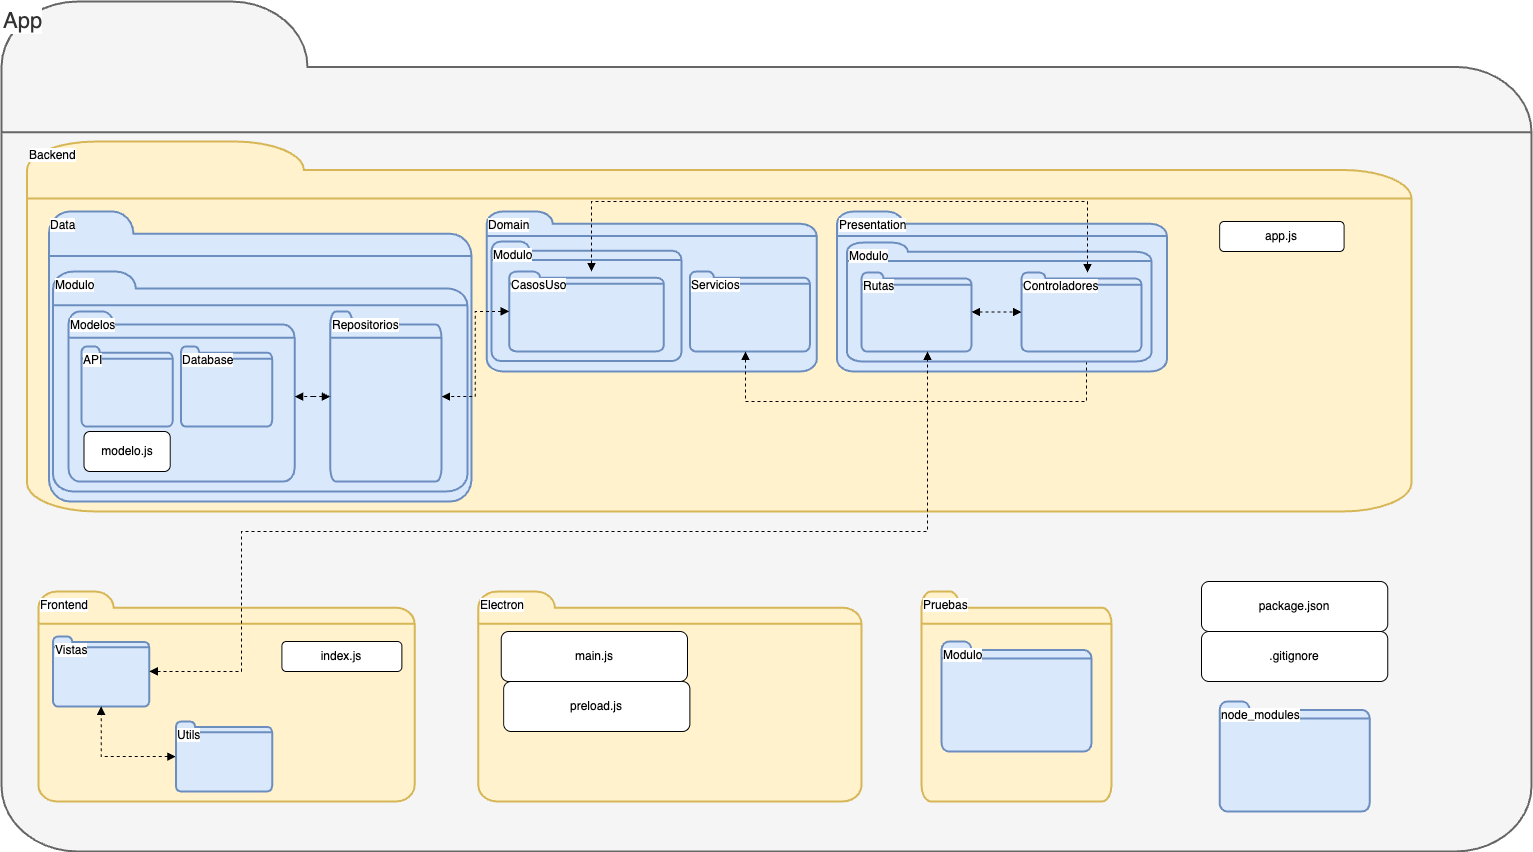
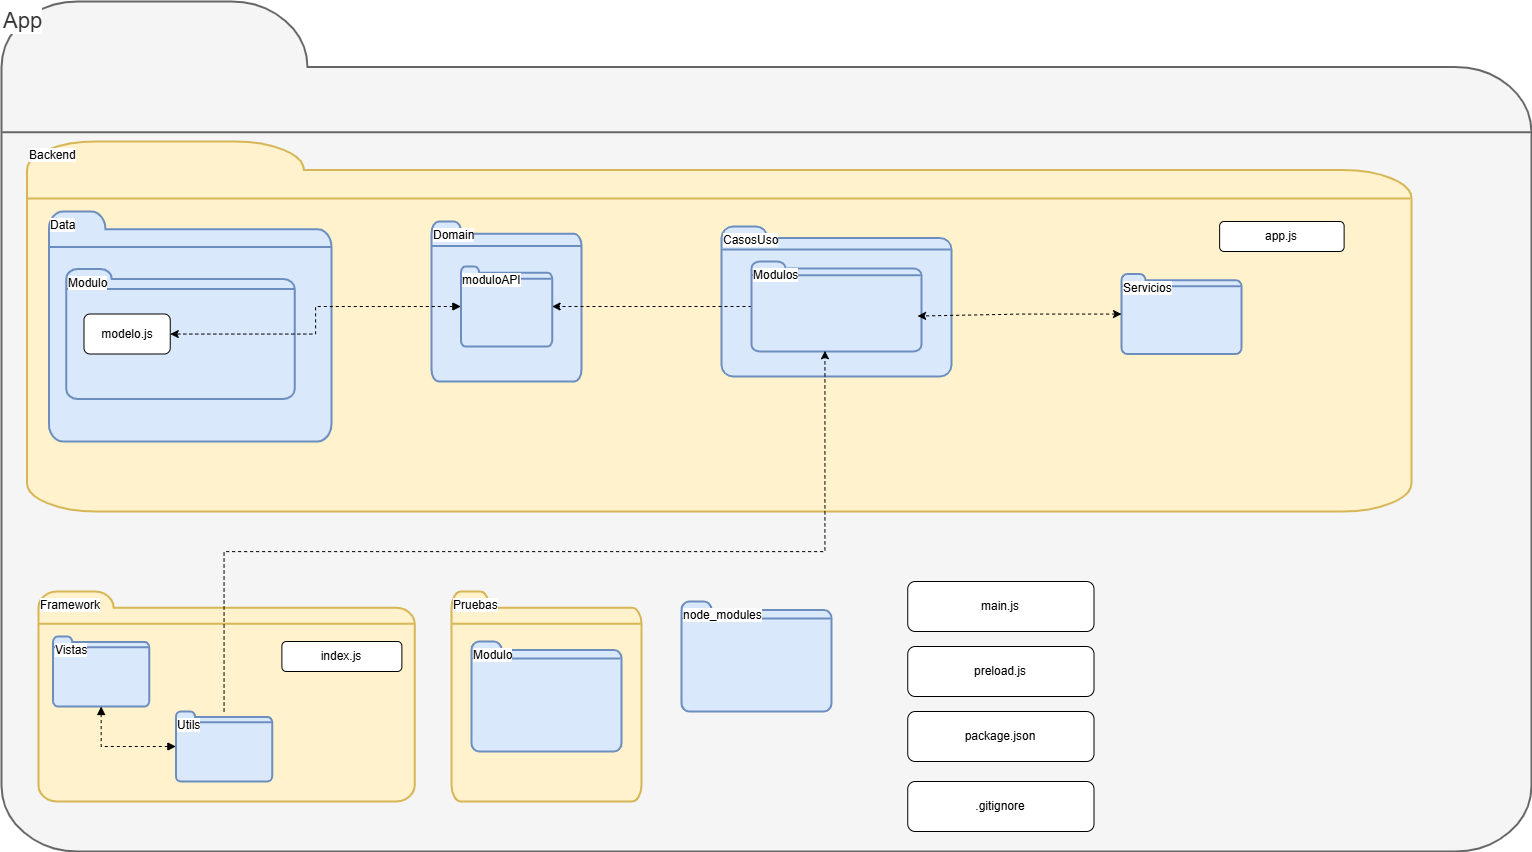
Actualizar diagrama de paquetes
Se actualizo el diagrama de paquetes de electron y su explicacion

diff --git a/documentation/docs/proyectos/tractores/documentacion/estrategia.md b/documentation/docs/proyectos/tractores/documentacion/estrategia.md
@@ -120,36 +120,32 @@ Este diagrama de paquetes representa la organización de la app local de electro
 
 ### 1. Backend
 
-Esta carpeta sigue una arquitectura basada en CLEAN con MVC.
+Esta carpeta sigue una arquitectura basada en CLEAN.
 
-- **Data**: Se encarga de la persistencia y recuperación de los datos. Encapsula el consumo de API's y los modelos. Cada módulo del proyecto tendrá su propia carpeta dentro de `Data`, que contendrá:
+- **Data**: Se encarga de la persistencia y recuperación de los datos. Cada módulo del proyecto tendrá su propia carpeta dentro de `Data`, que contendrá:
 
-  - **API**: Módulos para realizar llamadas a API's externas, si la aplicación lo necesita. Ej: Comunicación con el backend alojado en el EC2.
-  - **Database**: Configuración de la base de datos y sus conexiones.
   - **Modelos**: Definen las estructuras de datos de la aplicación (esquemas, clases).
-  - **Repositorios**: Abstracción de acceso de datos para separar la implementación de la lógica de negocio.
 
 - **Domain**: Contiene la lógica de negocio pura de la aplicación.
 
-  - **Modulo**: Cada módulo tendrá su carpeta propia que contendrá:
-    - **UseCases**: Define los casos de uso de la aplicación. Cada uno representa una operación clave.
-  - **Servicios**: Lógica reutilizable alrededor del proyecto.
+  - **ModuloAPI**: Que encapsula el consumo de las APIs
 
-- **Presentation**: Define las rutas y controladores para interactuar con el frontend local. Cada módulo del proyecto tendrá su propia carpeta dentro de `Presentation`, que contendrá:
+- **CasosUso**: Que encapsulará la lógica y procesamiento de los diversos casos de uso. Dentro de la carpeta, cada módulo del proyecto tendrá su propia carpeta, que contendrá:
 
-  - **Rutas**: Punto de entrada de las rutas y definición de las rutas de la API.
-  - **Controladores**: Implementación de la lógica que interactúa con los casos de uso.
+  - **CasoUso.js**: Que manejará la lógica de un caso de uso relacionado a su módulo.
+
+- **Servicios**: Que contendrán scripts y clases reutilizables a lo largo del proyecto
 
 - **Archivo principal**:
 
   - **app.js**: Punto de entrada principal del backend. Su función es inicializar y configurar el servidor local de la aplicación.
 
-### 2. Frontend
+### 2. Framework
 
 Esta carpeta se encarga de la interfaz de usuario y la interacción con el usuario.
 
 - **Vistas**: Son las interfaces que el usuario ve y con las que interactúa.
-- **Utils**: Funciones auxiliares que mejoran la eficiencia del código.
+- **Utils**: Funciones auxiliares para el comportamiento de las vistas.
 - **Archivo principal**:
   - **index.js**: Punto de entrada de Electron.
 
@@ -173,3 +169,4 @@ Se encarga de la integración de la aplicación con ElectronJS
 | **1.0**             | Primera versión de la estratégia técnica        | 06/03/2025 | Daniel Contreras Chávez      |
 | **2.0**             | Se hizo el cambio del diagrama de paquetes de la aplicación local en electron | 25/03/2025   | Ian Julián Estrada Castro |
 | **2.1**             | Se quitó ViewModels del diagrama de paquetes. Se actualizó diagrama de backend desacoplado. Se cambió a español | 27/03/2025 | Ian Julián Estrada Castro |
+| **2.2** | Se actualizó el diagrama de paquetes de electron y su explicación | 25/04/2025 | Daniel Contreras |
